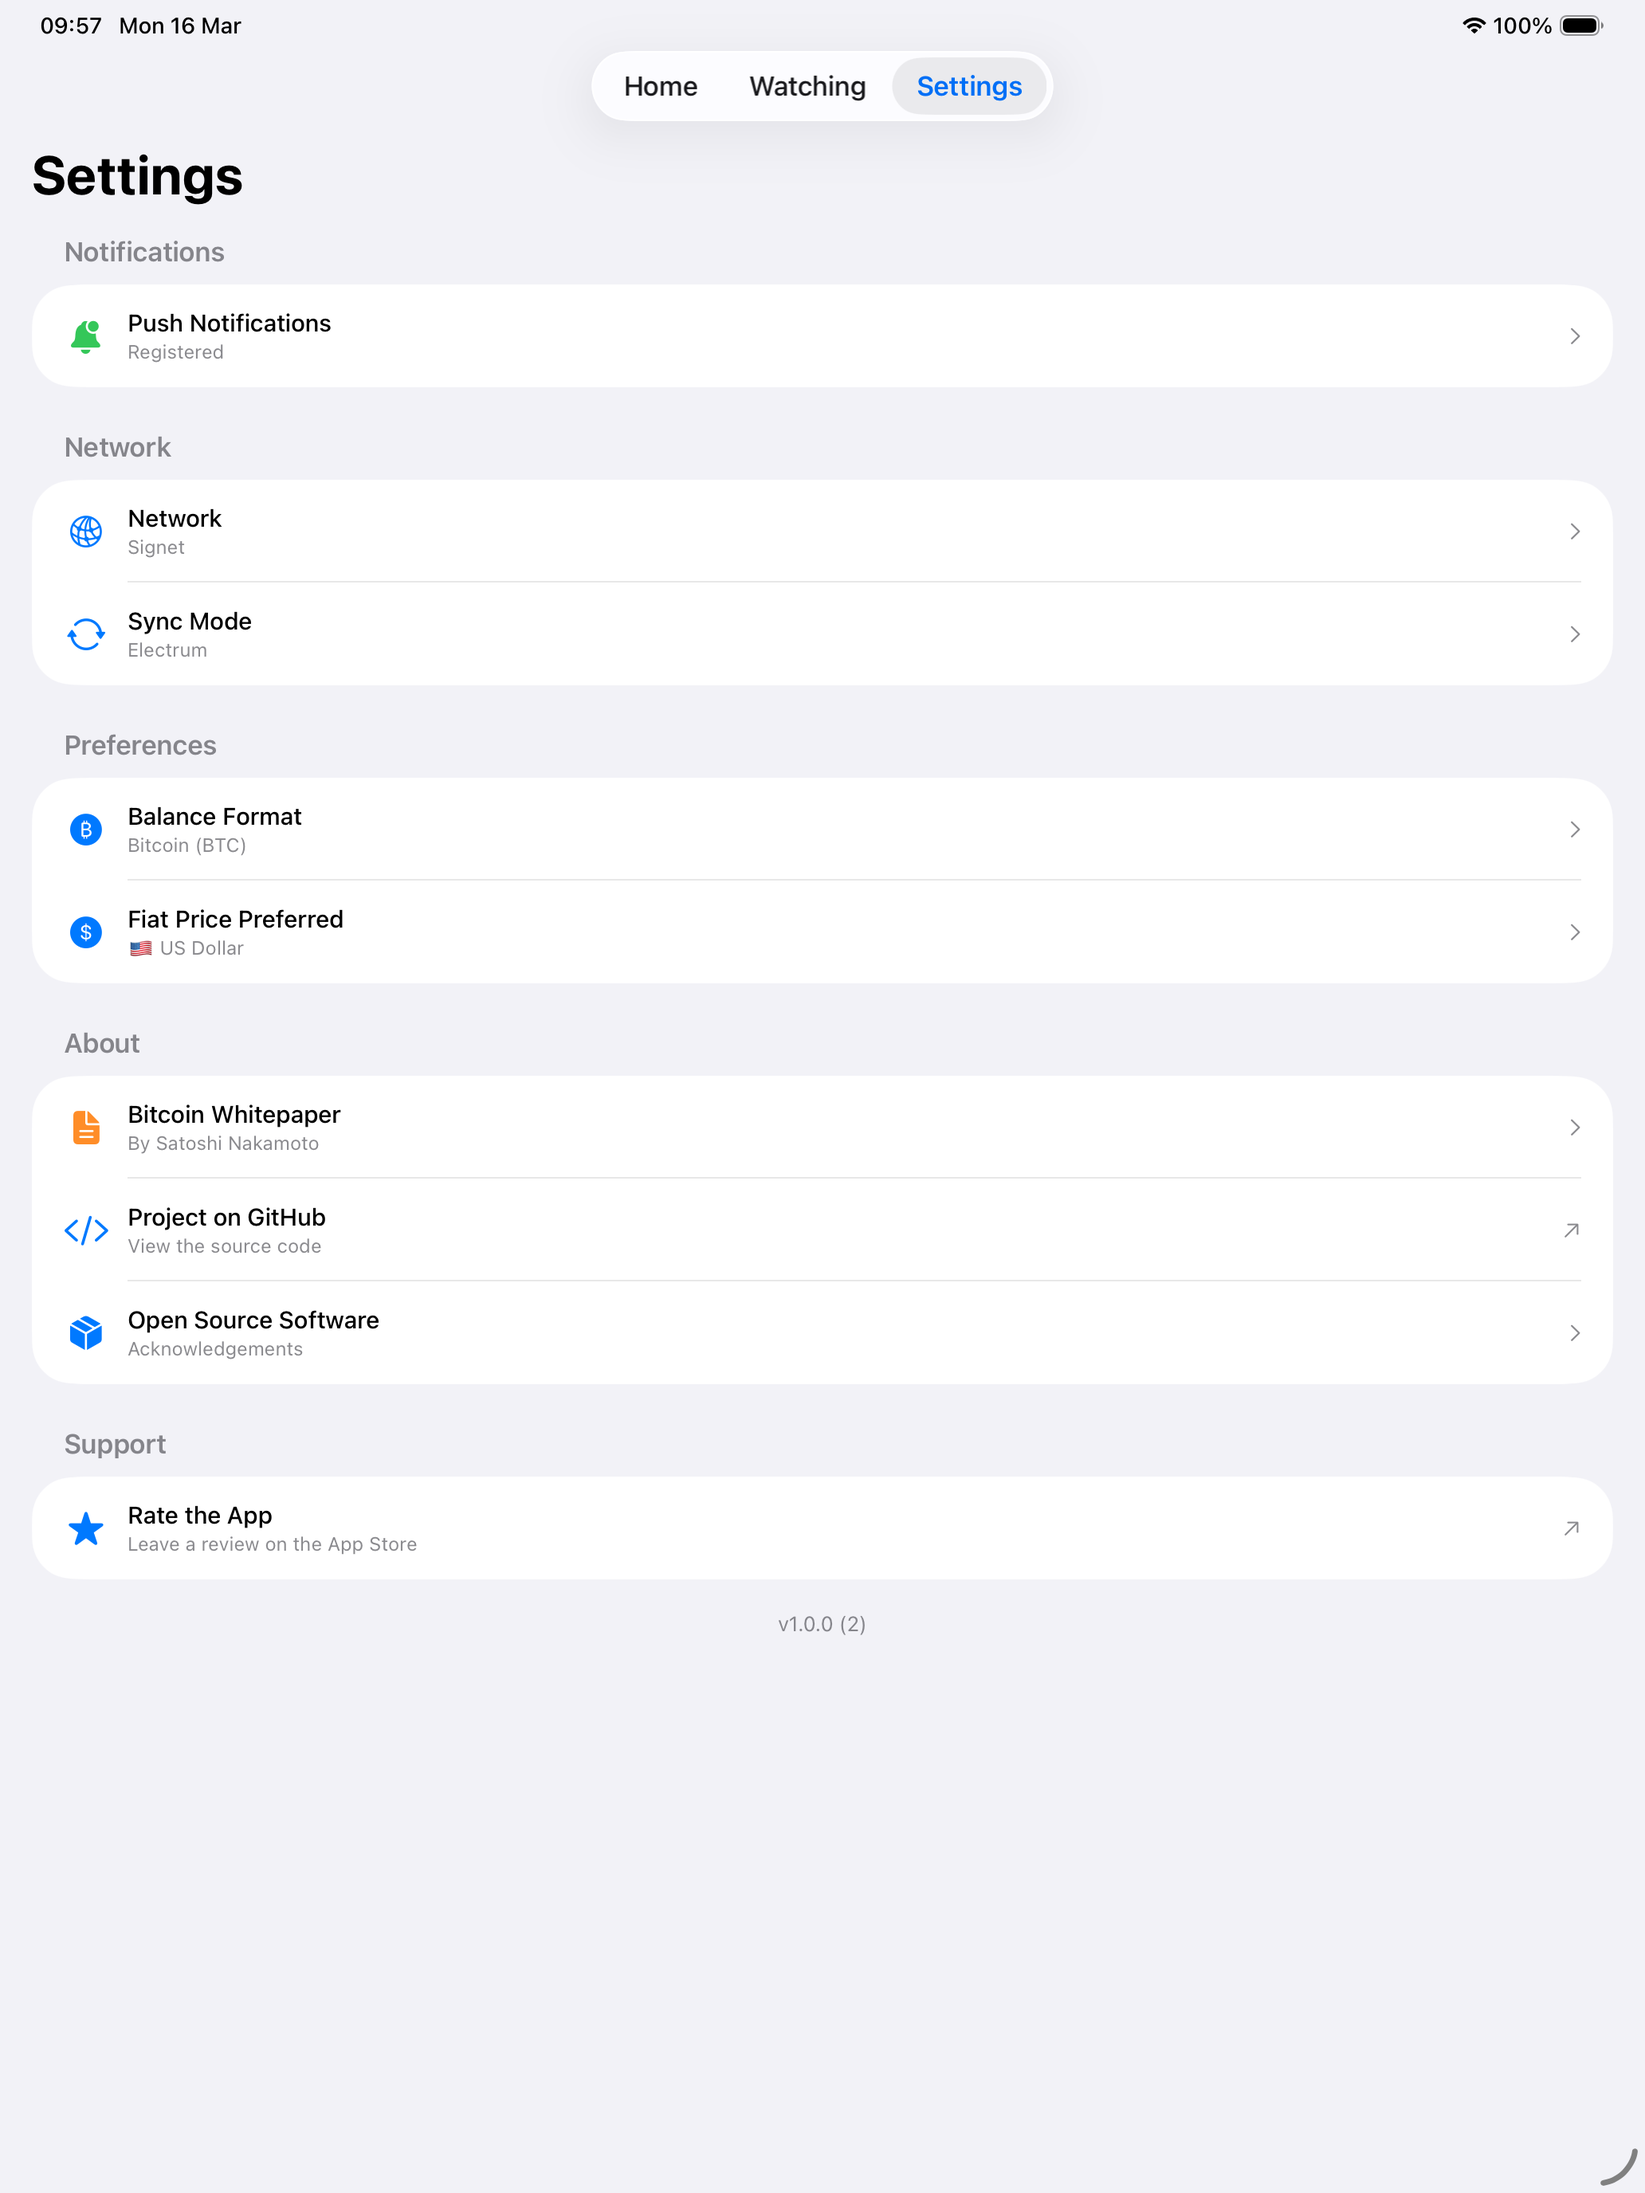
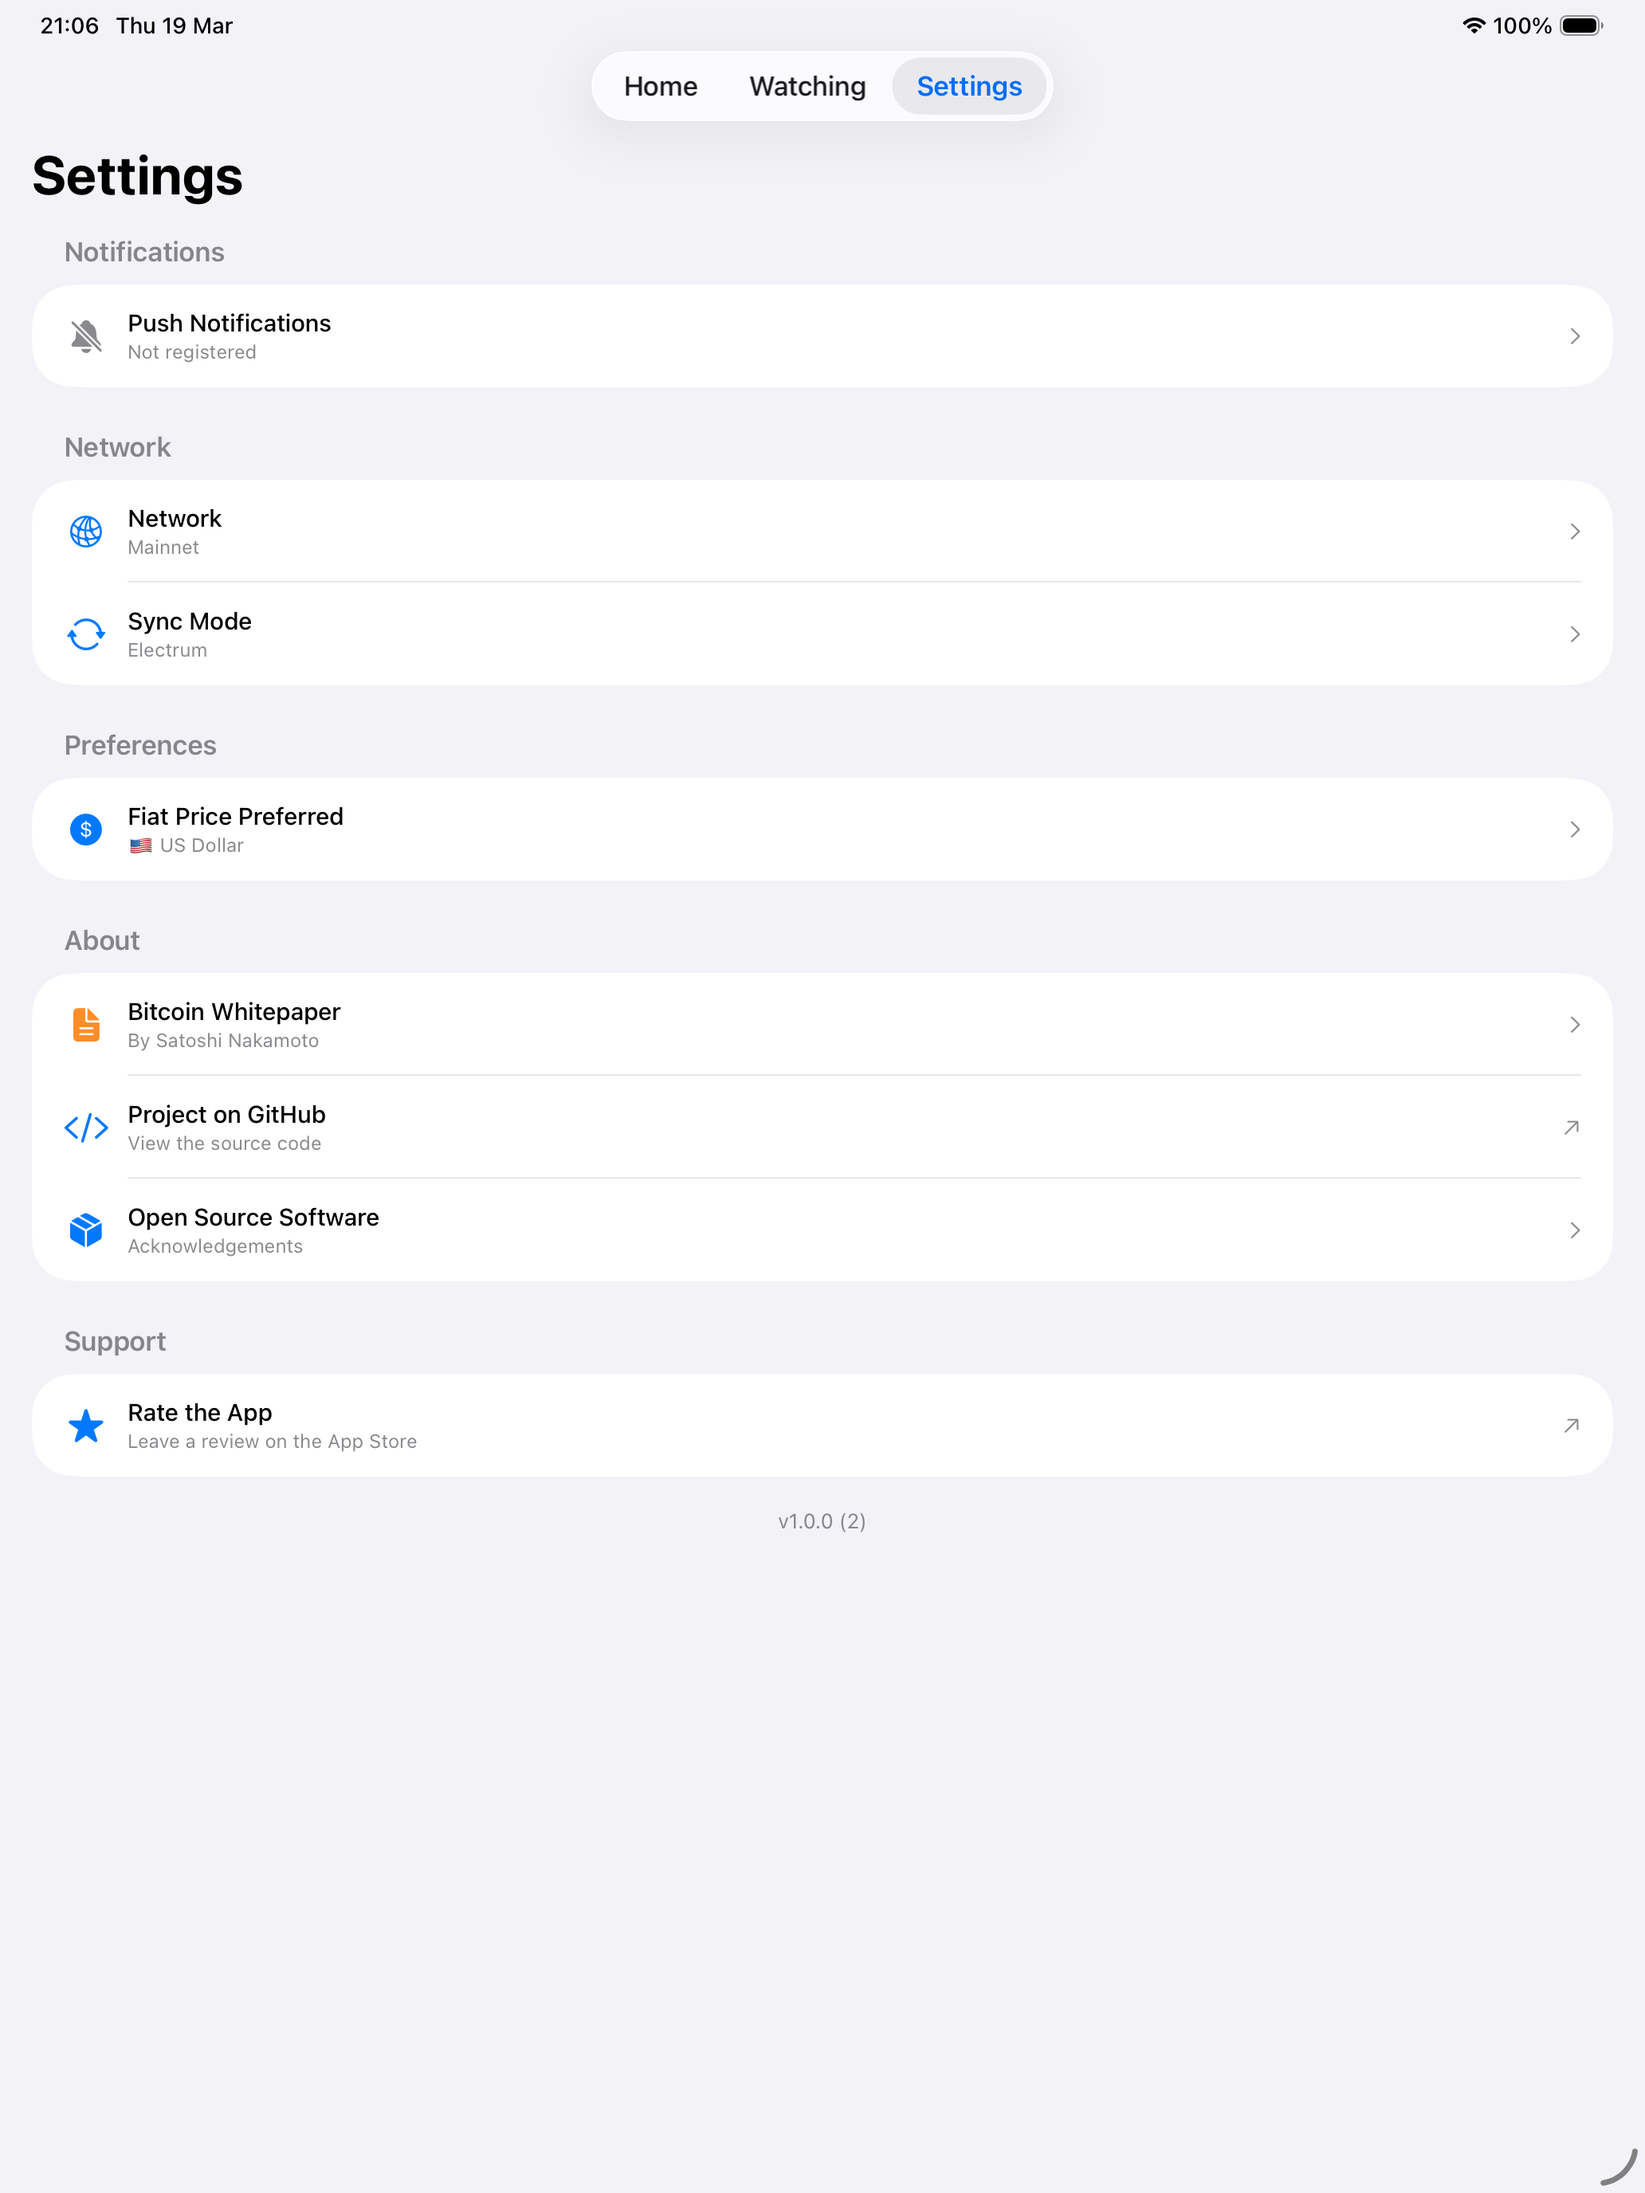
no message

diff --git a/SatStack/SatStack/Modules/Home/HomeViewModel.swift b/SatStack/SatStack/Modules/Home/HomeViewModel.swift
@@ -44,7 +44,7 @@ struct HomeUiState {
     /// Widgets not yet present in the active list, derived automatically.
     var availableWidgets: [WidgetItem] {
         let activeItems = Set(activeWidgets.map(\.item))
-        return WidgetItem.allCases.filter { !activeItems.contains($0) }
+        return WidgetItem.allCases.filter { !activeItems.contains($0) && $0 != .walletBalance }
     }
 }
 

diff --git a/SatStack/SatStack/Modules/Settings/SettingsView.swift b/SatStack/SatStack/Modules/Settings/SettingsView.swift
@@ -54,7 +54,7 @@ struct SettingsView<ViewModel: SettingsViewModelProtocol>: View {
                     buildSyncModeRow()
                 }
                 Section("Preferences") {
-                    buildBalanceFormatRow()
+//                    buildBalanceFormatRow()
                     buildFiatCurrencyRow()
                 }
                 Section("About") {
